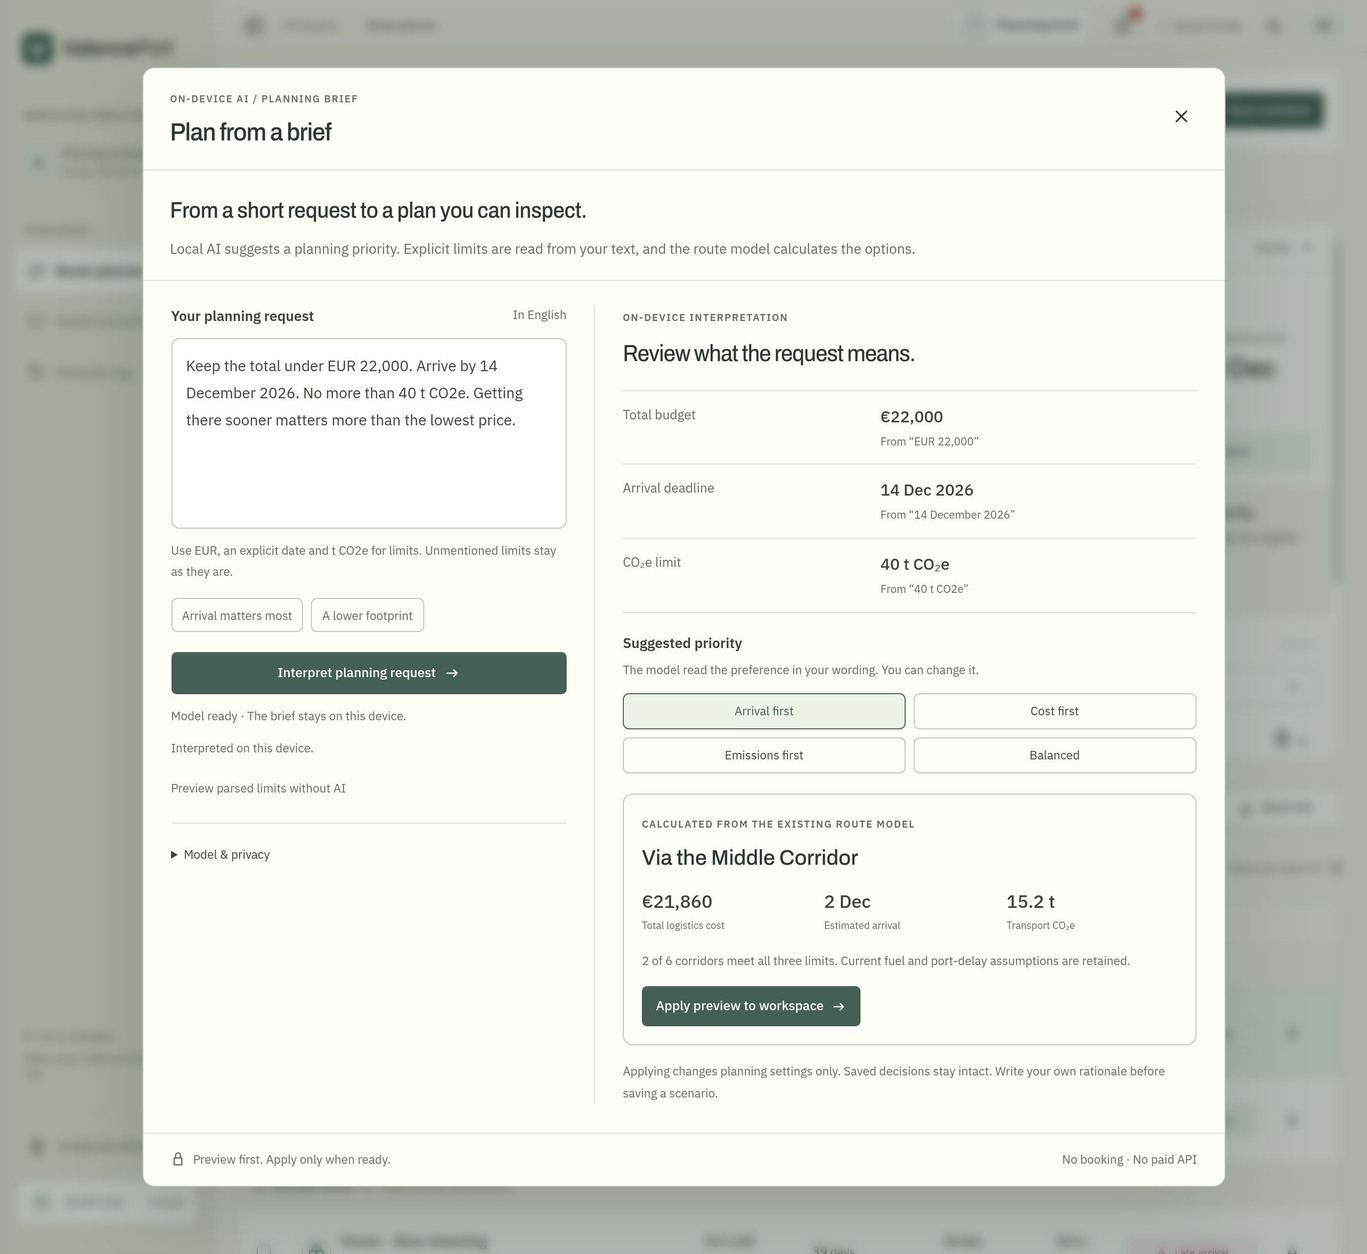
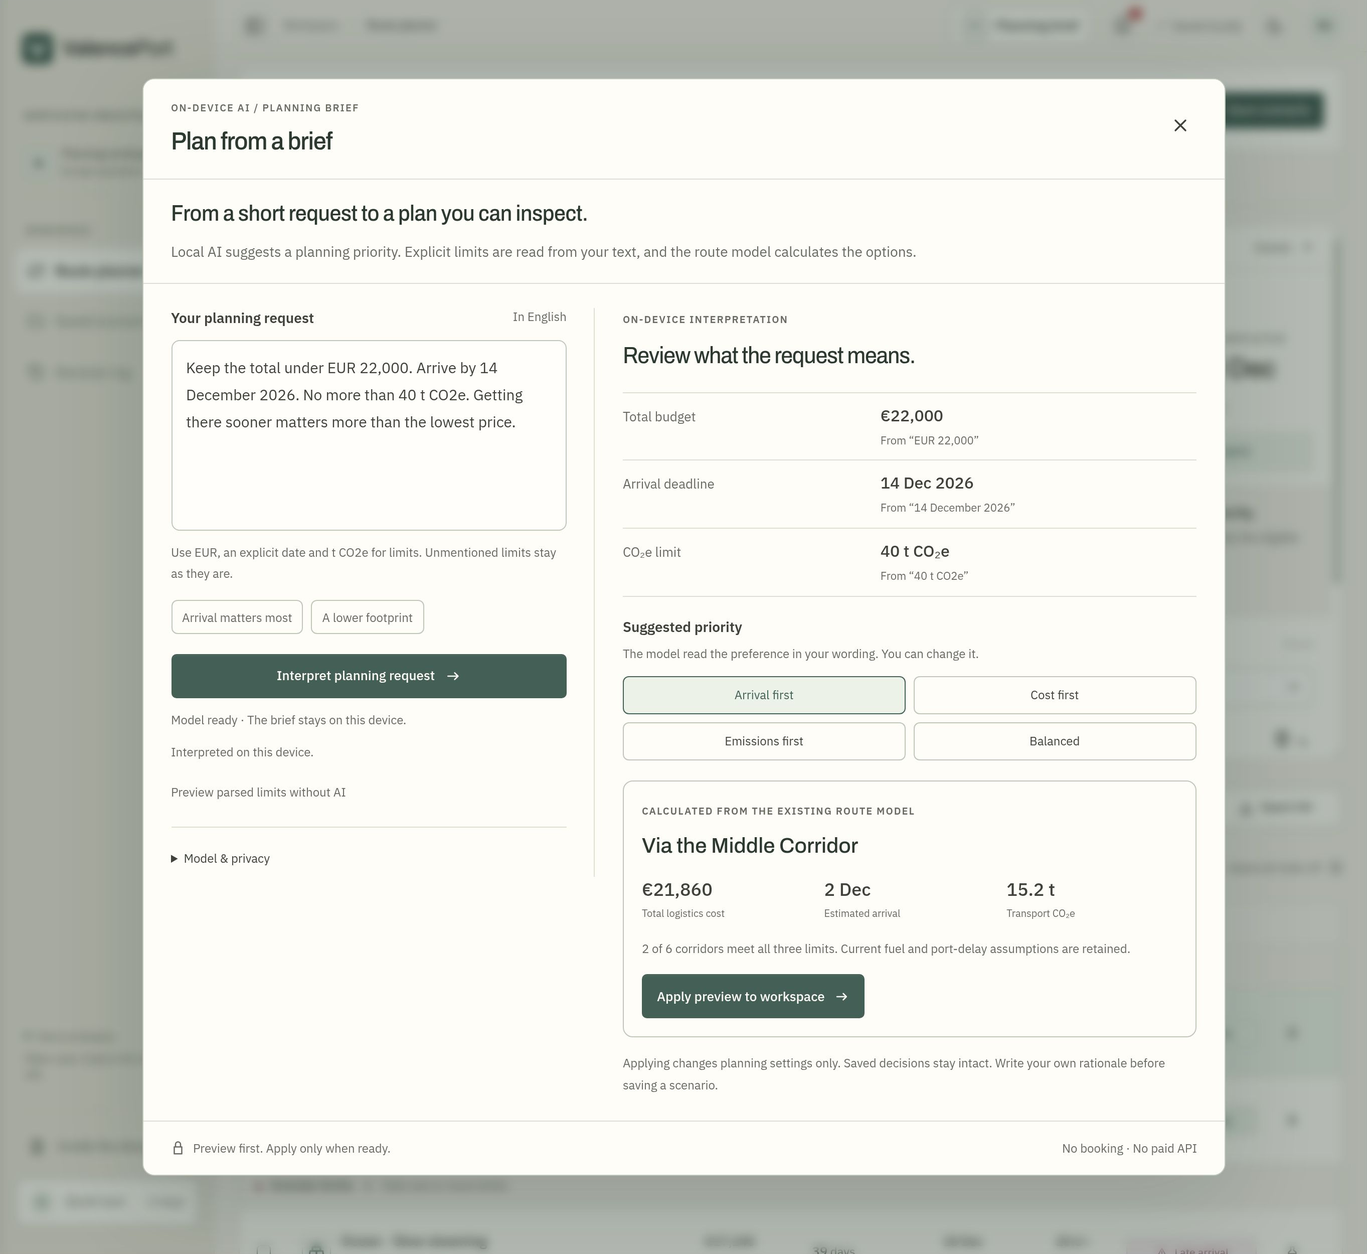
Refine README presentation and planning brief alignment

diff --git a/dist/intelligence.css b/dist/intelligence.css
@@ -17,3 +17,9 @@
 
 .case-intelligence-image figcaption{font-size:12px;line-height:1.7;padding:13px 17px;color:var(--muted);border-top:1px solid var(--line)}
 @media(max-width:700px){.brief-launch{width:42px;min-height:42px}.brief-launch>span:first-child{width:25px;height:25px}}
+/* Shared alignment for the launcher, brief fields and calculated route. */
+.brief-launch{height:38px;line-height:1;padding:0 11px;gap:9px}.brief-launch>span:first-child{display:inline-flex;align-items:center;justify-content:center;flex:0 0 24px;width:24px;height:24px;font-size:10px;font-weight:600;line-height:1;letter-spacing:0}.brief-launch>span:last-child{display:block;line-height:1}
+.planning-brief-dialog .dialog-header{padding:22px 28px}.planning-brief-dialog .brief-intro{padding:20px 28px}.brief-grid{padding:24px 28px;gap:28px;align-items:start}.brief-input{padding-right:27px}.brief-welcome{padding:0;min-height:0;justify-content:flex-start}.brief-symbol{margin-bottom:20px}.brief-welcome h3{margin:14px 0 18px}.brief-welcome ol{margin:20px 0}.brief-limits>div{align-items:baseline;padding:10px 0}.brief-limits dt{line-height:1.5}.brief-limits dd{min-width:0}.brief-priority>div{grid-auto-rows:1fr}.brief-priority button{display:flex;align-items:center;justify-content:center;min-height:38px;line-height:1.4}.brief-route-metrics{align-items:start}.brief-route-metrics>span{min-width:0}.brief-run,.brief-route>.button{display:flex;align-items:center;justify-content:center;gap:10px;line-height:1.5;min-height:44px;padding:10px 14px}.brief-run svg,.brief-route>.button svg{display:block;flex:0 0 auto}.brief-footer>span{line-height:1.6}.planning-brief-dialog button:focus-visible{outline-offset:2px}
+@media(max-width:1000px){.brief-launch{width:38px;padding:0}.brief-launch>span:last-child{display:none}}
+@media(max-width:700px){.brief-launch{height:42px;min-height:42px;width:42px}.brief-launch>span:first-child{width:25px;height:25px;flex-basis:25px}.planning-brief-dialog .dialog-header{padding:19px 20px}.brief-grid{padding:20px;gap:0}.brief-input{padding-right:0}.brief-welcome{padding:0}.brief-limits>div{grid-template-columns:minmax(0,.9fr) minmax(0,1.1fr);gap:12px;align-items:baseline}.brief-limits dd{font-size:15px}.brief-priority button{min-height:44px}.brief-route-metrics>span{align-items:baseline}.brief-run,.brief-route>.button{white-space:normal;text-align:center}.brief-footer>span{max-width:100%}}
+.brief-result>h3{scroll-margin-block-start:38px}

diff --git a/dist/case-study/index.html b/dist/case-study/index.html
@@ -47,7 +47,7 @@
     <link rel="stylesheet" href="../case-editorial.css" />
     <link rel="stylesheet" href="../guide.css" />
     <link rel="stylesheet" href="../mobile.css?v=mobile-1" />
-    <link rel="stylesheet" href="../intelligence.css?v=2.0.0" />
+    <link rel="stylesheet" href="../intelligence.css?v=2.0.1" />
   </head>
   <body>
     <a class="skip" href="#main">Skip to workspace</a>
@@ -55,6 +55,6 @@
     <div id="overlay-root"></div>
     <input id="scenario-backup" type="file" accept=".json,application/json" hidden>
     <div id="toast" class="toast" role="status"></div>
-    <script type="module" src="../app.js?v=2.0.0"></script>
+    <script type="module" src="../app.js?v=2.0.1"></script>
   </body>
 </html>

diff --git a/dist/index.html b/dist/index.html
@@ -44,7 +44,7 @@
     <link rel="stylesheet" href="./case-editorial.css" />
     <link rel="stylesheet" href="./guide.css" />
     <link rel="stylesheet" href="./mobile.css?v=mobile-1" />
-    <link rel="stylesheet" href="./intelligence.css?v=2.0.0" />
+    <link rel="stylesheet" href="./intelligence.css?v=2.0.1" />
   </head>
   <body>
     <a class="skip" href="#main">Skip to workspace</a>
@@ -52,6 +52,6 @@
     <div id="overlay-root"></div>
     <input id="scenario-backup" type="file" accept=".json,application/json" hidden>
     <div id="toast" class="toast" role="status"></div>
-    <script type="module" src="./app.js?v=2.0.0"></script>
+    <script type="module" src="./app.js?v=2.0.1"></script>
   </body>
 </html>

diff --git a/dist/app.js b/dist/app.js
@@ -11,7 +11,7 @@ import {planningLimitsForm,createPlanningControls} from './planning-controls.mjs
 import {createTourPlayback} from './tour-playback.mjs';
 import {createPresetMenu} from './preset-menu.mjs';
 import {createProfileMenu} from './profile-menu.mjs';
-import {caseStudyView} from './case-editorial.mjs?v=2.0.0';
+import {caseStudyView} from './case-editorial.mjs?v=2.0.1';
 import {guideView,guideFrame,guideSteps as tourSteps} from './guide.mjs?v=mobile-1';
 import {loadGeography} from './geography-base.mjs';
 import {

diff --git a/README.md b/README.md
@@ -1,174 +1,110 @@
 <div align="center">
 
-  <picture>
-    <source media="(prefers-reduced-motion: reduce)" srcset="docs/brand/valenceport-mark.png?v=2">
-    <img src="docs/brand/valenceport-animated.gif?v=2" alt="ValencePort — two paths forming a connected V" width="88" height="88">
-  </picture>
+<img src="docs/brand/valenceport-animated.gif?v=2" alt="ValencePort animated mark" width="80" height="80">
 
-  # ValencePort
+# ValencePort
 
-  **A clearer route forward.**
+**A clearer route forward.**
 
-  Freight scenario planning · Product design & working prototype<br>
-  Designed by **Robert Vaganian**
+Product design & working prototype by **Robert Vaganian**
 
-  [![Release](https://img.shields.io/badge/version-2.0.0-435f56?style=flat)](package.json)
-  [![JavaScript](https://img.shields.io/badge/JavaScript-ES_modules-435f56?style=flat)](dist/app.js)
-  [![Node](https://img.shields.io/badge/Node-%E2%89%A522-435f56?style=flat)](package.json)
-  [![On-device AI](https://img.shields.io/badge/AI-on_device-435f56?style=flat)](#on-device-ai-from-a-brief-to-a-plan)
-  [![Tests](https://img.shields.io/badge/behavior_tests-118-435f56?style=flat)](tests/)
-  [![Responsive](https://img.shields.io/badge/responsive-desktop_%C2%B7_tablet_%C2%B7_mobile-435f56?style=flat)](#a-planning-session)
+[![Checks](https://img.shields.io/github/actions/workflow/status/RobertVaganian/valenceport/checks.yml?branch=main&label=checks&style=flat&labelColor=29332e&color=60786b)](https://github.com/RobertVaganian/valenceport/actions/workflows/checks.yml)
+[![Deployment](https://img.shields.io/github/actions/workflow/status/RobertVaganian/valenceport/deploy.yml?branch=main&label=deploy&style=flat&labelColor=29332e&color=60786b)](https://github.com/RobertVaganian/valenceport/actions/workflows/deploy.yml)
+[![JavaScript](https://img.shields.io/badge/JavaScript-ES_modules-60786b?style=flat&labelColor=29332e)](package.json)
+[![On-device AI](https://img.shields.io/badge/AI-on_device-60786b?style=flat&labelColor=29332e)](#on-device-ai-start-with-a-brief)
 
-  [Open the prototype](https://robertvaganian.github.io/valenceport/) ·
-  [Case study](https://robertvaganian.github.io/valenceport/case-study/) ·
-  [Try local AI](https://robertvaganian.github.io/valenceport/?brief=1) ·
-  [Run locally](#run-locally) ·
-  [Why this design](#why-i-designed-it-this-way)
+<p>
+<a href="https://robertvaganian.github.io/valenceport/"><strong>Live prototype</strong></a>
+&nbsp; · &nbsp;
+<a href="https://robertvaganian.github.io/valenceport/case-study/"><strong>Case study</strong></a>
+&nbsp; · &nbsp;
+<a href="https://robertvaganian.github.io/valenceport/?brief=1"><strong>Try local AI</strong></a>
+</p>
 
 </div>
 
 ---
 
-A lower quote can hide a worse plan. ValencePort compares six ways to move the same Shanghai–Rotterdam shipment across **cost, arrival and transport emissions**, then lets a planner test the assumptions and keep the reason behind a choice.
+ValencePort helps a freight planner compare six ways to move the same Shanghai–Rotterdam shipment. Cost, arrival and emissions stay beside the route, so a lower quote does not hide a missed deadline.
 
-The starting plan costs **€16,880** but arrives **five days late**. The Suez alternative costs **€1,540 more**, arrives **nine days earlier** and meets all three planning limits. That is the decision the interface needs to make clear.
+**The decision:** Cape costs **€16,880** but arrives five days late. Suez costs **€1,540 more** and arrives nine days earlier, within all three limits.
 
-## The workspace
+[![ValencePort workspace: the selected corridor, pinned baseline and planning limits](docs/readme/overview.jpg?v=3)](docs/screenshots/01-planner-dark.jpg?v=2)
 
-Six views from the working prototype, in light and dark themes. Select any screen to inspect it at full size.
+## Inside the workspace
+
+Four details from the working prototype. Select an image to inspect the complete screen.
 
 <table>
-  <tr>
-    <td width="50%" valign="top">
-      <strong>01 · Route planning</strong><br><br>
-      <a href="docs/screenshots/01-planner-dark.jpg?v=2"><img src="docs/screenshots/01-planner-dark.jpg?v=2" alt="Map the selected corridor against its baseline." width="440"></a><br>
-      <sub>Map the selected corridor against its baseline.</sub>
-    </td>
-    <td width="50%" valign="top">
-      <strong>02 · Cost and time</strong><br><br>
-      <a href="docs/screenshots/02-tradeoffs-light.jpg?v=2"><img src="docs/screenshots/02-tradeoffs-light.jpg?v=2" alt="See the deadline, budget and emissions trade-off." width="440"></a><br>
-      <sub>See the deadline, budget and emissions trade-off.</sub>
-    </td>
-  </tr>
-  <tr>
-    <td width="50%" valign="top">
-      <strong>03 · Planned journey</strong><br><br>
-      <a href="docs/screenshots/03-journey-dark.jpg?v=2"><img src="docs/screenshots/03-journey-dark.jpg?v=2" alt="Inspect the stages behind an arrival estimate." width="440"></a><br>
-      <sub>Inspect the stages behind an arrival estimate.</sub>
-    </td>
-    <td width="50%" valign="top">
-      <strong>04 · Compare alternatives</strong><br><br>
-      <a href="docs/screenshots/04-comparison-light.jpg?v=2"><img src="docs/screenshots/04-comparison-light.jpg?v=2" alt="Read costs, arrival and emissions side by side." width="440"></a><br>
-      <sub>Read costs, arrival and emissions side by side.</sub>
-    </td>
-  </tr>
-  <tr>
-    <td width="50%" valign="top">
-      <strong>05 · Preserve the rationale</strong><br><br>
-      <a href="docs/screenshots/05-rationale-dark.jpg?v=2"><img src="docs/screenshots/05-rationale-dark.jpg?v=2" alt="Keep the assumptions and reason with the plan." width="440"></a><br>
-      <sub>Keep the assumptions and reason with the plan.</sub>
-    </td>
-    <td width="50%" valign="top">
-      <strong>06 · Inside the design</strong><br><br>
-      <a href="docs/screenshots/06-case-study-light.jpg?v=2"><img src="docs/screenshots/06-case-study-light.jpg?v=2" alt="Explore the product decisions in an interactive case study." width="440"></a><br>
-      <sub>Explore the product decisions in an interactive case study.</sub>
-    </td>
-  </tr>
+<tr>
+<td width="50%" valign="top"><strong>01 · Follow the route</strong><br><br><a href="docs/screenshots/01-planner-dark.jpg?v=2"><img src="docs/readme/map.jpg?v=3" width="440" alt="Selected Suez corridor and the pinned Cape baseline on the route map"></a><br><sub>Keep the selected corridor and baseline in view.</sub></td>
+<td width="50%" valign="top"><strong>02 · Read the trade-off</strong><br><br><a href="docs/screenshots/02-tradeoffs-light.jpg?v=2"><img src="docs/readme/tradeoffs.jpg?v=3" width="440" alt="Cost and transit time plotted against the shipment budget and deadline"></a><br><sub>Compare the options against the same limits.</sub></td>
+</tr>
+<tr>
+<td width="50%" valign="top"><strong>03 · Inspect the journey</strong><br><br><a href="docs/screenshots/03-journey-dark.jpg?v=2"><img src="docs/readme/journey.jpg?v=3" width="440" alt="Planned journey stages and the arrival estimate for Suez"></a><br><sub>See the stages behind an arrival estimate.</sub></td>
+<td width="50%" valign="top"><strong>04 · Compare alternatives</strong><br><br><a href="docs/screenshots/04-comparison-light.jpg?v=2"><img src="docs/readme/comparison.jpg?v=3" width="440" alt="Suez, Cape and Middle Corridor compared on cost, transit, arrival and emissions"></a><br><sub>Read the complete compromise side by side.</sub></td>
+</tr>
 </table>
 
-## On-device AI: from a brief to a plan
+## On-device AI: start with a brief
 
-**“Stay under EUR 22,000, arrive by 14 December; getting there sooner matters most.”**
+**“Stay under EUR 22,000. Arrive by 14 December. Getting there sooner matters most.”**
 
-The **AI · Planning brief** button turns that request into a preview: explicit limits with their source quotes, a suggested priority and a calculated route. Change the priority or apply the preview when ready. Saving still requires your own reason for the decision.
+The **AI · Planning brief** button prepares a plan you can inspect: source-linked limits, a suggested priority and a calculated route. Review the interpretation, change the priority if needed, then apply it explicitly.
 
-[![Local planning brief with an arrival-first suggestion and a Middle Corridor preview](docs/screenshots/07-planning-brief-light.jpg?v=2)](docs/screenshots/07-planning-brief-light.jpg?v=2)
+[![A local planning brief with its source quotes, reviewed priority and calculated route](docs/readme/planning-brief.jpg?v=3)](docs/screenshots/07-planning-brief-light.jpg?v=3)
 
-| Part of the request | What handles it |
-| --- | --- |
-| Preference expressed in words | A small MiniLM model suggests arrival, cost, emissions or balanced priority. |
-| Budget, deadline and CO₂e limit | Explicit parsing, with source quotes and validation. |
-| Route eligibility, prices and arrival | The same calculation model as the workspace. |
-| Applying the plan | The planner, after reviewing the preview. |
+The model interprets the preference in your wording. Explicit parsing handles the limits; the route model supplies prices, arrival and emissions. Saving a scenario still needs your own reason.
 
-No account, API key or paid inference. First use downloads about **50 MB**, including a 23 MB model, from Hugging Face and jsDelivr. Inference runs on the device; the brief is not sent to an inference endpoint. Unclear priorities require a choice. Unsupported numeric instructions are blocked. A labelled **rules-only preview** is available without loading AI.
+**No API key or paid inference.** First use downloads about 50 MB; inference runs on the device. Unclear preferences require a manual choice. A labelled rules-only preview is available without loading the model.
 
-[How the local model works →](docs/local-intelligence.md)
+[Try the planning brief →](https://robertvaganian.github.io/valenceport/?brief=1) · [How it works](docs/local-intelligence.md)
 
-## Notifications with somewhere useful to go
+## Test a change. Keep the reason.
 
-Add **seven days of port delay** in Scenario lab. Suez misses the deadline, the leading eligible option changes, and both events appear behind the bell. The unread count, All/Unread filters and read controls help track the changes.
+Add **seven days of port delay**: Suez moves from 10 to 17 December and misses the deadline. The Middle Corridor remains eligible. The inspector shows the impact, and the bell records what changed.
 
-[![Planning notifications after a seven-day delay](docs/screenshots/08-notifications-light.jpg?v=2)](docs/screenshots/08-notifications-light.jpg?v=2)
+Notifications include an unread count, All/Unread filters and links to the relevant route or saved assumptions. They track planning activity in this browser. Opening an earlier event never restores old limits.
 
-A route event opens the current plan. A saved-scenario event opens its original assumptions. Earlier notifications never silently restore old limits. These are browser-local planning events, with the latest 50 retained; they are not carrier push alerts.
-
-## A planning session
-
-1. **Set the limits**, directly or through a planning brief.
-2. **Compare eligible routes**, inspect their journey and pin a baseline.
-3. **Test fuel and delay assumptions**; follow the changes in the inspector and notifications.
-4. **Save the reason**, keeping the route, limits and assumptions together. Export a comparison or JSON backup when needed.
-
-On phones, cards replace the wide table, comparisons stack and the map has a dedicated full-screen view. Bottom navigation keeps the workspace within reach. Light and dark themes share the same hierarchy.
+Save an eligible scenario with its explanation, constraints and baseline. Its assumptions remain readable after the workspace changes. Export a comparison or JSON backup when needed.
 
 ## Why I designed it this way
 
-### Eligibility comes before preference
+**Eligibility before preference.** A cheap route is not useful if it breaks the plan. Check the limits first, then rank the eligible options by the planner’s priority.
 
-The cheapest or fastest option may still break the plan. The table separates routes within limits from those outside them, then sorts each group by the chosen priority. Selection, comparison and the pinned baseline have distinct controls.
+**Put AI beside the decision.** A brief helps set up the comparison. Source quotes and a calculated preview make its interpretation inspectable before anything is applied.
 
-### The map carries the geography
+**Preserve the context.** A saved number needs the assumptions and reasoning that produced it. Stress-test impact stays separate from comparison against a baseline.
 
-A self-hosted vector base stays sharp while zooming. Sea, rail, road and air legs retain different line styles; gaps in recorded observations remain gaps. Smooth camera movement, route reveals and a full-map view help people follow a corridor without losing their place.
-
-### A saved plan keeps its context
-
-Saving preserves the route, constraints, assumptions, baseline and explanation together. Fuel and delay impact remain separate from baseline comparisons, so two different kinds of change are not mixed into one number.
-
-IBM Plex Sans supports the dense interface; Archivo gives the headings their compact character. Warm stone surfaces, restrained status tones and light and dark themes share one visual system. Motion respects reduced-motion preferences.
+IBM Plex Sans supports the dense interface; Archivo gives the headings their compact character. Warm stone surfaces, light and dark themes, and a responsive card layout keep the same hierarchy across screen sizes.
 
 ## Run locally
 
-Requires **Node.js 22 or newer**. No dependency installation, API key or account is needed.
+Requires **Node.js 22+**. No dependency installation is needed.
 
 ```sh
+git clone https://github.com/RobertVaganian/valenceport.git
+cd valenceport
 npm run dev
 ```
 
-Open **http://127.0.0.1:8080**. The interactive case study is at **http://127.0.0.1:8080/case-study/**.
-
-```sh
-npm run check
-```
-
-This checks JavaScript syntax and runs the 118 behavior tests. Serve the app through HTTP; opening `dist/index.html` directly does not load its modules correctly.
+Open **http://127.0.0.1:8080**. Run `npm run check` for syntax checks and the 118 behavior tests.
 
 <details>
-<summary><strong>Implementation, calculations and data sources</strong></summary>
+<summary><strong>Implementation, data and scope</strong></summary>
 
-The application uses HTML, CSS and JavaScript modules without a build step. Core planning works without third-party runtime downloads. Optional local AI loads a pinned Transformers.js runtime and model only after an explicit action. The `dist/` directory contains the editable application, not an opaque generated bundle.
+The editable application lives in `dist/`: HTML, CSS and JavaScript modules, with no build step. Core planning runs without third-party runtime downloads. Optional local AI loads a pinned MiniLM model and Transformers.js in a worker.
 
-| Area | Entry points |
+| Area | Source |
 | --- | --- |
-| Shipment data, calculations and ranking | [`dist/model.mjs`](dist/model.mjs) |
-| Map, geometry and camera movement | [`dist/route-map.mjs`](dist/route-map.mjs), [`dist/map-camera.mjs`](dist/map-camera.mjs) |
-| Fuel and delay assumptions | [`dist/scenario-lab.mjs`](dist/scenario-lab.mjs) |
-| Saved records and backup validation | [`dist/workspace-model.mjs`](dist/workspace-model.mjs) |
-| Local planning brief | [`dist/brief-model.mjs`](dist/brief-model.mjs), [`dist/brief-worker.mjs`](dist/brief-worker.mjs) |
-| Planning notifications | [`dist/notifications.mjs`](dist/notifications.mjs) |
-| Interactive product design case study | [`dist/case-editorial.mjs`](dist/case-editorial.mjs) |
+| Calculations and ranking | [model.mjs](dist/model.mjs) |
+| Map and camera | [route-map.mjs](dist/route-map.mjs), [map-camera.mjs](dist/map-camera.mjs) |
+| Saved records and backups | [workspace-model.mjs](dist/workspace-model.mjs) |
+| Local AI and notifications | [Local intelligence notes](docs/local-intelligence.md) |
+| Interactive case study | [case-editorial.mjs](dist/case-editorial.mjs) |
 
-Checks cover ranking, calculations, saved snapshots, import validation, geography, route continuity, complete reveals and text/status contrast. See the [implementation notes](docs/implementation.md) for calculation rules and model boundaries.
+A self-initiated concept using illustrative shipment records, rates, durations and emissions. No live quotes, booking or operational clearance. Saved data stays in the browser unless exported. No participant research or measured business impact is claimed.
 
-Geography uses Natural Earth. Sea legs use SeaRoute; cached rail and road geometry comes from OpenStreetMap-based routing. Air connections are indicative; the optional historical flight example preserves observation gaps. See [route provenance](docs/corridor-provenance.md) and [track notes](dist/assets/tracks/README.md).
+Natural Earth supplies the base geography. SeaRoute and OpenStreetMap-derived networks supply documented route geometry; air links are indicative. See [route provenance](docs/corridor-provenance.md), [track credits](dist/assets/tracks/README.md), [font licenses](dist/assets/fonts/README.md) and [LICENSE](LICENSE).
 
 </details>
-
-## Scope and credits
-
-A self-initiated portfolio concept by **[Robert Vaganian](https://github.com/RobertVaganian)**. Shipment records, prices, durations and emissions are illustrative. The prototype does not retrieve live rates, book freight or certify an operational route. Saved scenarios stay in the current browser unless exported.
-
-The case study explains design decisions and interface validation. No user research results or measured business impact are claimed.
-
-MiniLM and Transformers.js use Apache 2.0; see the [local intelligence notes](docs/local-intelligence.md) for pinned sources. Natural Earth is public domain. SeaRoute uses Apache 2.0; OSM-derived network data and ADSB.lol observations use ODbL 1.0. Credits are included with the [route data](dist/assets/tracks/README.md); the self-hosted fonts include their [OFL licenses](dist/assets/fonts/README.md).

diff --git a/docs/readme/README.md b/docs/readme/README.md
@@ -1,0 +1,7 @@
+# README images
+
+The overview shows the actual running workspace. The four gallery previews are continuous crops of its map, cost/time plot, journey and comparison table, fitted without distortion into equal 1600 × 1000 canvases. Gallery links open the complete source screens.
+
+The planning brief image shows a completed local model run and its calculated preview, before applying settings. It retains the complete dialog, source quotes and action. The case study uses the corresponding full-viewport capture.
+
+No interface values or controls are redrawn. Captures exclude the pointer, its highlight and text carets. Original full-screen captures remain under `docs/screenshots/`.
